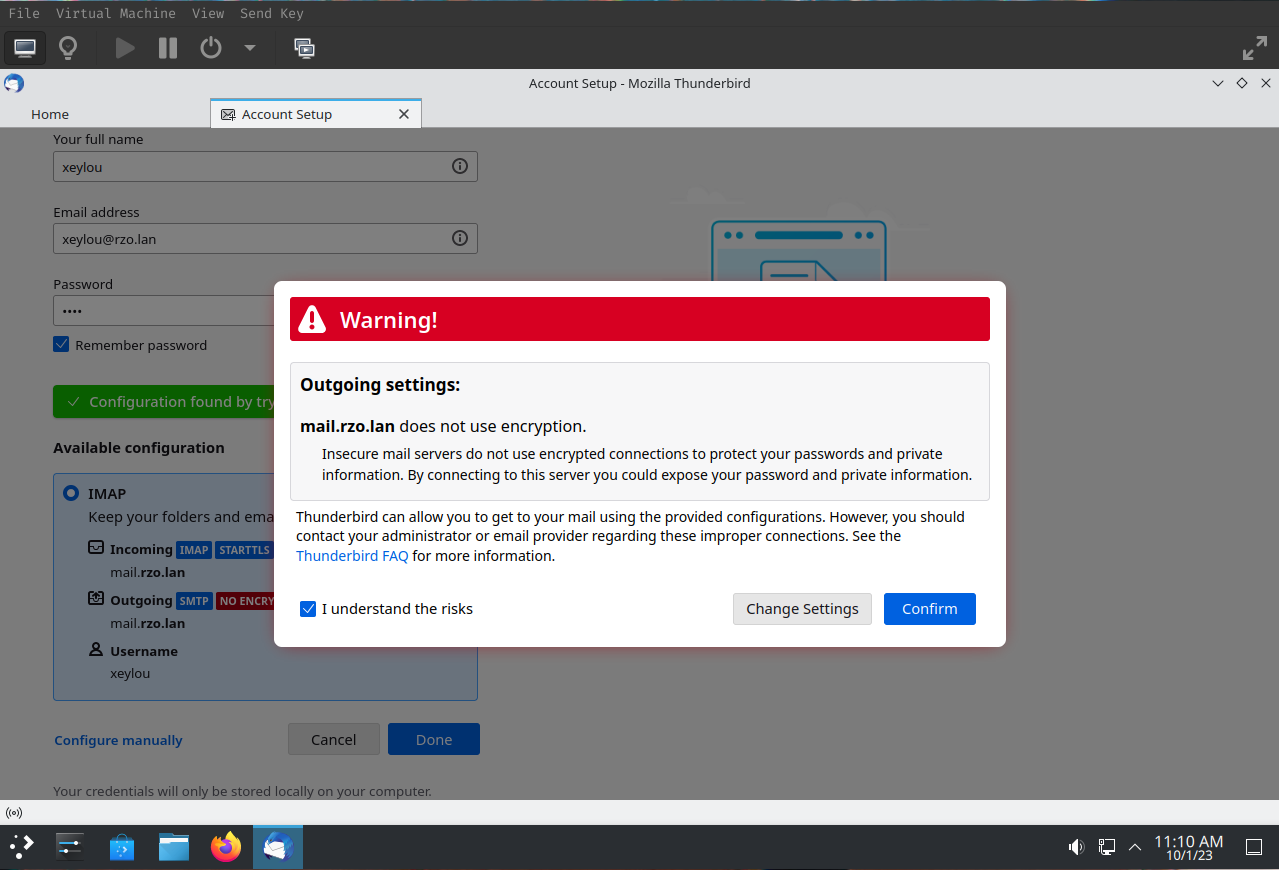
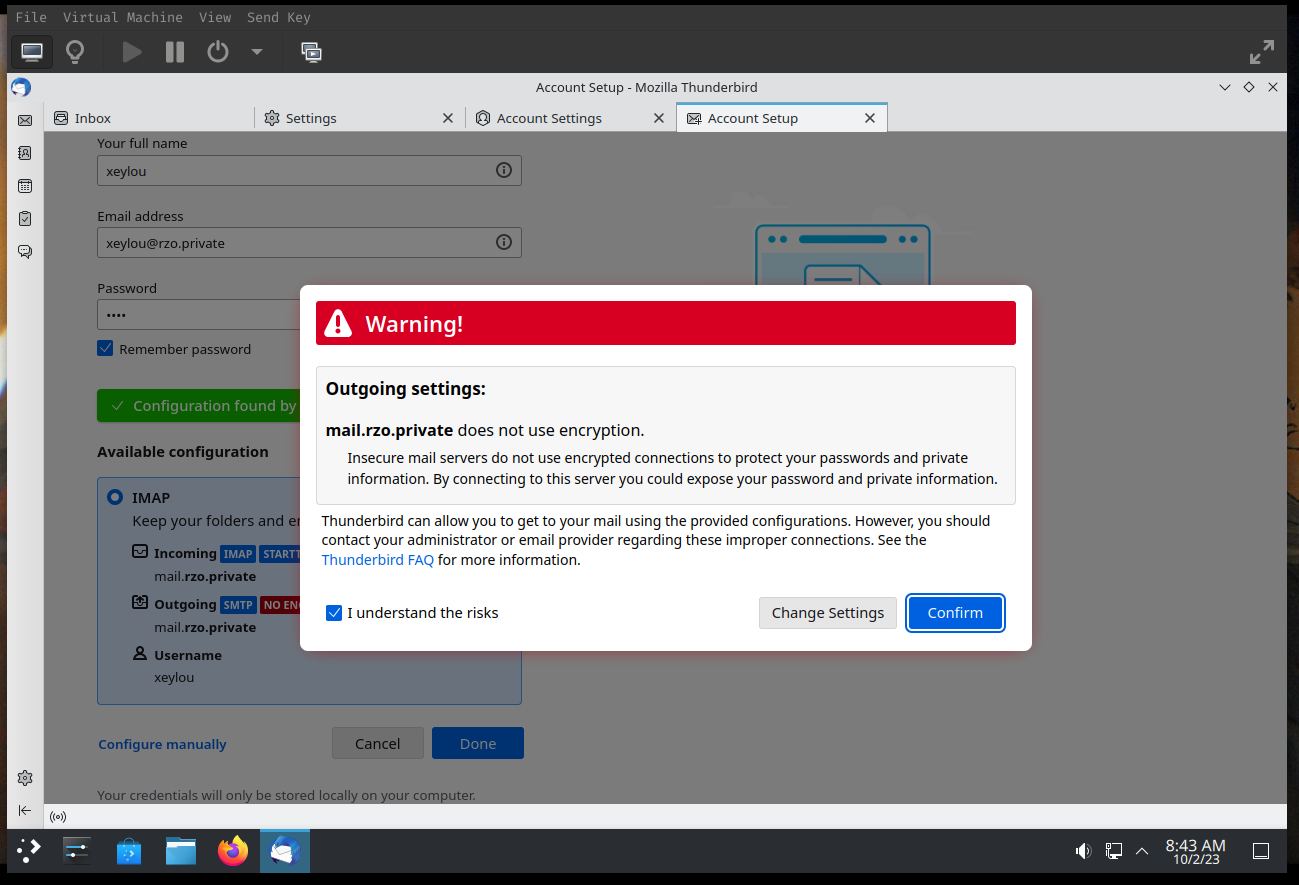
finished?

Changed region(s): [[0.0, 0.0, 1.0, 1.0], [0.2439, 0.8069, 0.4269, 0.869], [0.3659, 0.2483, 0.3964, 0.2793]]

diff --git a/content/posts/postfix-workshop/index.md b/content/posts/postfix-workshop/index.md
@@ -559,6 +559,12 @@ systemctl status postfix
 systemctl status dovecot
 ```
 
+pour débogger
+
+```bash
+journalctl -xfe
+```
+
 un des problèmes importants que j'ai eu
 
 > Oct 02 09:01:33 r303-deb12-postfix postfix/pipe[2905]: 940265FD8B: to=<xeylou@rzo.private>, relay=dovecot, delay=0.04, delays=0.02/0/0/0.02, dsn=4.3.0, status=deferred (temporary failure. Command output: lda(xeylou@rzo.private): Error: net_connect_unix(/run/dovecot/stats-writer) failed: Permission denied Can't open log file /var/log/dovecot.log: Permission denied )
@@ -713,26 +719,24 @@ connexion utilisateur virtuel `xeylou`
 ![](thunderbird/thunderbird-02.png)
 ![](thunderbird/thunderbird-03.png)
 ![](thunderbird/thunderbird-04.png)
-![](thunderbird/thunderbird-05.png)
-![](thunderbird/thunderbird-06.png)
 
 pareil pour `testing`
 
-![](thunderbird/thunderbird-10.png)
-![](thunderbird/thunderbird-11.png)
-![](thunderbird/thunderbird-12.png)
-![](thunderbird/thunderbird-13.png)
+![](thunderbird/thunderbird-00-0.png)
+![](thunderbird/thunderbird-00-1.png)
+![](thunderbird/thunderbird-00-2.png)
+![](thunderbird/thunderbird-00-3.png)
+![](thunderbird/thunderbird-00-4.png)
+![](thunderbird/thunderbird-00-5.png)
 
 envoi du premier mail
 
-![](thunderbird/thunderbird-07.png)
+![](thunderbird/thunderbird-05-0.png)
+![](thunderbird/thunderbird-05-1.png)
+![](thunderbird/thunderbird-05-2.png)
 
-envoi effectué si pas d'erreur de ce type
-
-![](thunderbird/thunderbird-09.png)
-
-mails peuvent être visualisés sur vm postfix
+mail peut être visualisé sur vm postfix/dovecot
 
 ```bash
-ls /opt/messagerie/rzo.lan/xeylou/Maildir/.Sent/cur/
+ls /opt/messagerie/rzo.private/testing/Maildir/.Sent/cur/
 ```
